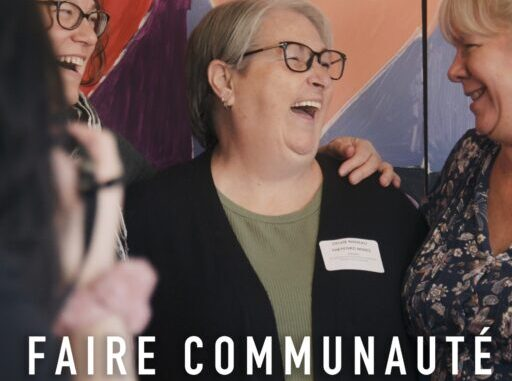
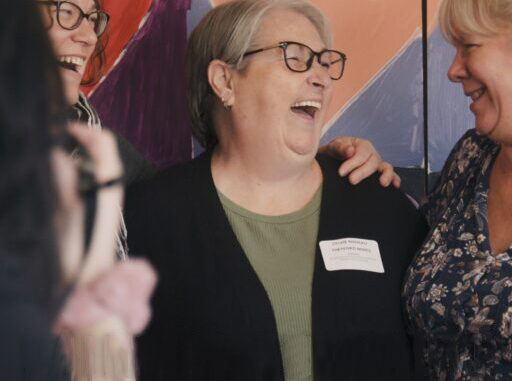
avancement nouvelle et update img
nouvelle image équipe et avancement de l'article

Changed region(s): [[0.3438, 0.8373, 0.9688, 1.0], [0.0312, 0.8661, 0.3125, 1.0]]

diff --git a/wp-content/themes/marieMichelle_Ouellet-flhlmq/news-article.html b/wp-content/themes/marieMichelle_Ouellet-flhlmq/news-article.html
@@ -95,41 +95,103 @@
         <br>
         <div class="article__content">
             <h3>Un sous titre pour diviser les sections</h3>
-            <br>
             <p>La ministre France Élaine Duranceau a présenté sa Stratégie québécoise en Habitation pour répondre à la crise du logement. Le gouvernement se donne pour cible de hausser de 45 000 à 56 000 le nombre de logements réalisés chaque année au Québec pour atteindre 560 000 nouvelles habitations dans dix ans</p>
-            <br>
             <p>Cette stratégie est expliquée dans la présentation
                 <a href="">« Stratégie Québécoise en habitation ».</a></p>
-            <br>
             
             <cite>“Une courte, ou longue, phrase inspirante ou citation pour enrichir le texte. Par exemple, venant du powerpoint.” - Prénom Nom et informations</cite>
-            
             <br>
             <br>
             <img src="./medias/img/nouvelle_image_parlement-quebec.jpg" class="article__img">
 
             <p class="alt">Information de l’image si besoin</p>
 
-            <br>
             <h3>La question qui tue !</h3>
-            <br>
+
             <p>Combien de logements sociaux et abordables parmi ceux-ci ? La ministre en annonce 23 300, espère t-elle sur six ans, soit 3883 par année. C’est donc, au mieux, <strong>4%</strong> de logement sociaux et abordables qui seront réalisés selon les ambitions de la ministre Duranceau. Le parc actuel tournant autour de 10%, et étant nettement insuffisant, la stratégie annoncée vise à réduire à 4% le pourcentage à venir</p>
-            <br>
+
             <p>Avec des objectifs aussi minables pour répondre aux besoins criants des dizaines de milliers de ménages consacrant 30, 40 et 50 % de leur revenu pour se loger lorsqu’ils le peuvent, il ne faut pas se surprendre de constater que la stratégie ne contient aucune nouvelle mesure et aucun nouveau budget en faveur du logement social et communautaire.</p>
-            <br>
+
             <img src="./medias/img/nouvelle_image_02.jpg" class="article__img">
 
             <p class="alt">Source quelconque d’une image si besoin - 2024</p>
-            <br>
+
             <h3>Exemple d’un très long titre qui pourrait prendre beaucoup de place mais qui ferait un gros impacte dans l’attention du lecteur.</h3>
-            <br>
+            
             <p>Si l’annonce de la stratégie gouvernementale est d’abord et avant tout une opération de relations publiques pour la ministre, puisqu’elle ne fait qu’énumérer les mesures que le gouvernement a déjà prises et qui se sont avérées nettement insuffisantes pour contrer la disparition du parc de logements à bas loyer au Québec, elle constitue aussi un parti pris évident.  Ainsi, la ministre redemande aux villes de simplifier leurs règles pour permettre aux promoteurs privés de construire à leur guise et promet des PSL à profusion pour ceux qui accepteront à prix fort de loger des ménages dans le besoin.  C’est bien là ce qui est au cœur de la stratégie de la ministre, ceux qui sont la cause de l’augmentation faramineuse des loyers sur le marché locatif seront, encore une fois, appelés à en tirer profit !</p>
 
+            <cite>“Une autre courte, ou longue, phrase inspirante ou citation pour enrichir le texte. Par exemple, venant du powerpoint.” - Prénom Nom et informations</cite>
+            <br>
+            <br>
+
+            <p>Pour le logement social et communautaire, pas une unité de plus mais une invitation à former un comité consultatif pour discuter des moyens à mettre en place un jour dans l’avenir.
+                Alors que l’Assemblée nationale du Québec a créé la Société d’habitation du Québec, il y a plus de cinquante ans, pour mettre à la disposition des citoyens des logements sociaux et abordables, celle-ci s’avère incapable ou menottée, en pleine crise du logement, de prendre des initiatives audacieuses en ce sens.</p>
+
+                <p>
+                    Il nous faudra trouver les moyens de redonner des ailes à la SHQ pour qu’elle puisse soutenir les offices d’habitation dans le développement de nouveaux HLM. Un premier pas, les 14 et 15 septembre, lors du camp et de la manifestation du FRAPRU à Québec !</p>
         </div>
-        <div class="article__preview">
-            <p>Prochain Article</p>
-                <h2 class="article__preview-title">WAAA</h2>
-        </div>
+        <section class="actus">
+            <div class="article__buttons">
+                <p class="hero__page page"><a href="" class="article__next">Précédant</a></p>
+                <p class="hero__page page"><a href="" class="article__next">Suivant</a></p>
+            </div>
+            <div class="actus__alignement">
+                <!--Carte 1-->
+                <a href="" class="actualiteHub">
+                    <p class="actualiteHub__date">
+                      lun 11/09/2024 - 15:50
+                    </p>
+                    <div class="actualiteHub__desc">
+                      <p>
+                        <span class="surligne__droits">Pétition pour des HLM de qualité</span>
+                      </p>
+                    </div>
+                    
+                    <div class="actualiteHub__img"></div>
+                    <button class="actualiteHub__btn btnN">
+                      Société
+                    </button>
+                  </a>
+            
+                <!--Carte 2-->
+                <a href="" class="actualiteHub">
+                    <div class="actualiteHub__date">
+                        mar 17/09/2024 - 12:03
+                    </div>
+                    <div class="actualiteHub__desc">
+                      <p>
+                        <span class="surligne__droits">Envoyez un courriel pour soutenir Alexis!</span>
+                      </p>
+                    </div>
+                    
+                    <div class="actualiteHub__img"></div>
+                    <button class="actualiteHub__btn btnN">
+                      Société
+                    </button>
+                  </a>
+            
+            
+                <!--Carte 3-->
+            
+                <a href="" class="actualiteHub">
+                    <p class="actualiteHub__date">
+                        lun 16/09/2024 - 16:28
+                    </p>
+                    <div class="actualiteHub__desc">
+                      <p>
+                        <span class="surligne__droits">Je vis dans un HLM et ça, c’est une chance que j’ai</span>
+                      </p>
+                    </div>
+                    
+                    <div class="actualiteHub__img"></div>
+                    <button class="actualiteHub__btn btnN">
+                      Société
+                    </button>
+                  </a>
+        
+              <!--Fin des cartes à Victor modifiés par Kenza-->
+        
+            </section>
     </section>
         
 

diff --git a/wp-content/themes/marieMichelle_Ouellet-flhlmq/contact-us.html b/wp-content/themes/marieMichelle_Ouellet-flhlmq/contact-us.html
@@ -10,7 +10,7 @@
     <link rel="stylesheet" href="./style.css">
     <link rel="stylesheet" href="https://fonts.googleapis.com/css2?family=Material+Symbols+Outlined:opsz,wght,FILL,GRAD@24,400,0,0" />
     <link rel="stylesheet" href="https://cdnjs.cloudflare.com/ajax/libs/font-awesome/6.6.0/css/all.min.css">
-    <title>Acceuil - FHLMQ</title>
+    <title>Contactez-Nous - FHLMQ</title>
 </head>
 <body>
     <!--Code message projet étudant-->

diff --git a/wp-content/themes/marieMichelle_Ouellet-flhlmq/style.css b/wp-content/themes/marieMichelle_Ouellet-flhlmq/style.css
@@ -2478,7 +2478,7 @@ input:focus, textarea:focus {
   }
 }
 .article {
-  min-height: 250vh;
+  min-height: 100vh;
   margin: 0 auto;
   width: 1400px;
 }
@@ -2543,6 +2543,9 @@ input:focus, textarea:focus {
   border-radius: 15px;
   -o-object-fit: cover;
      object-fit: cover;
+}
+.article__content p, .article__content h3, .article__content cite, .article__content cite::after {
+  margin-bottom: 2vw;
 }
 
 .alt {

diff --git a/wp-content/themes/marieMichelle_Ouellet-flhlmq/partials-scss/_article.scss b/wp-content/themes/marieMichelle_Ouellet-flhlmq/partials-scss/_article.scss
@@ -2,7 +2,7 @@
 @use "mixins/mixins";
 
 .article {
-    min-height: 250vh;
+    min-height: 100vh;
     margin: 0 auto;
     width: 1400px;
     &__content {
@@ -45,6 +45,10 @@
         width: 100%;
         border-radius: 15px;
         object-fit: cover;
+    }
+
+    &__content p, &__content h3, &__content cite, &__content cite::after {
+        margin-bottom: 2vw;
     }
 
 }
